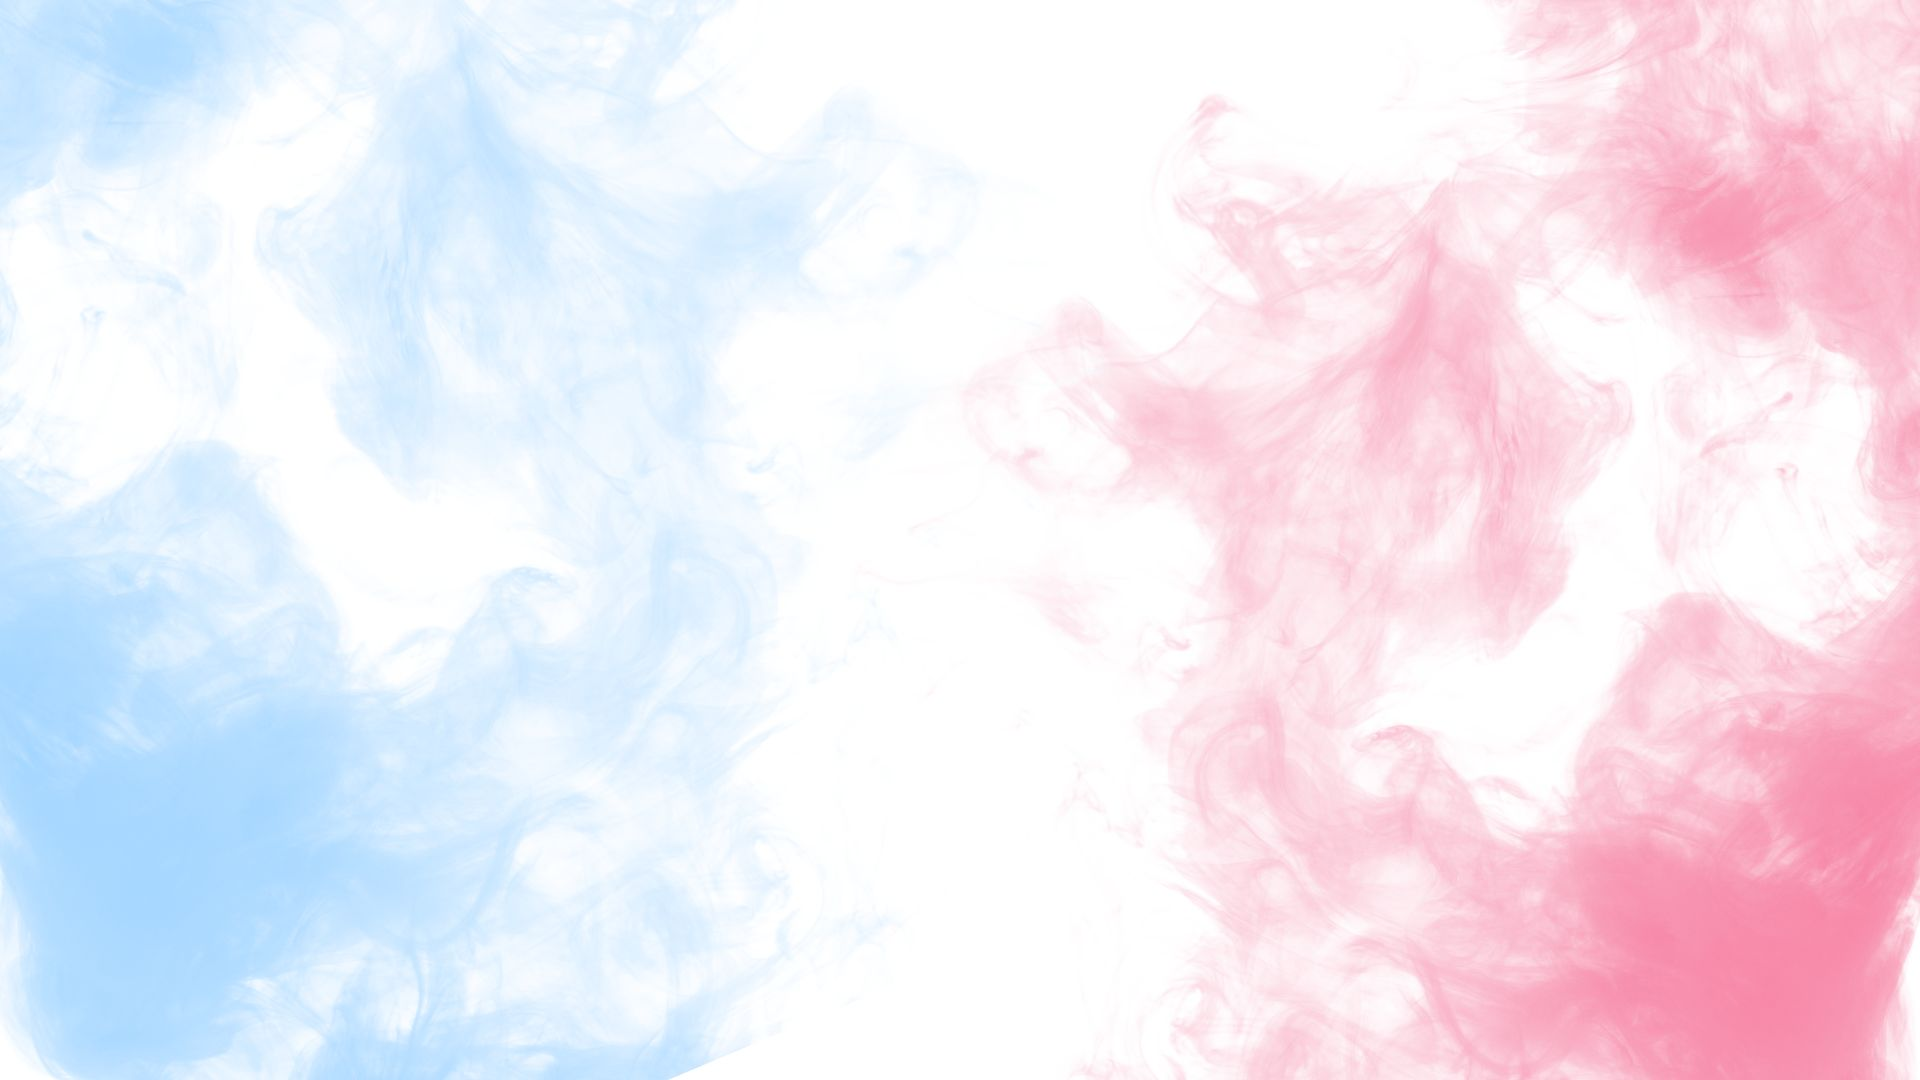
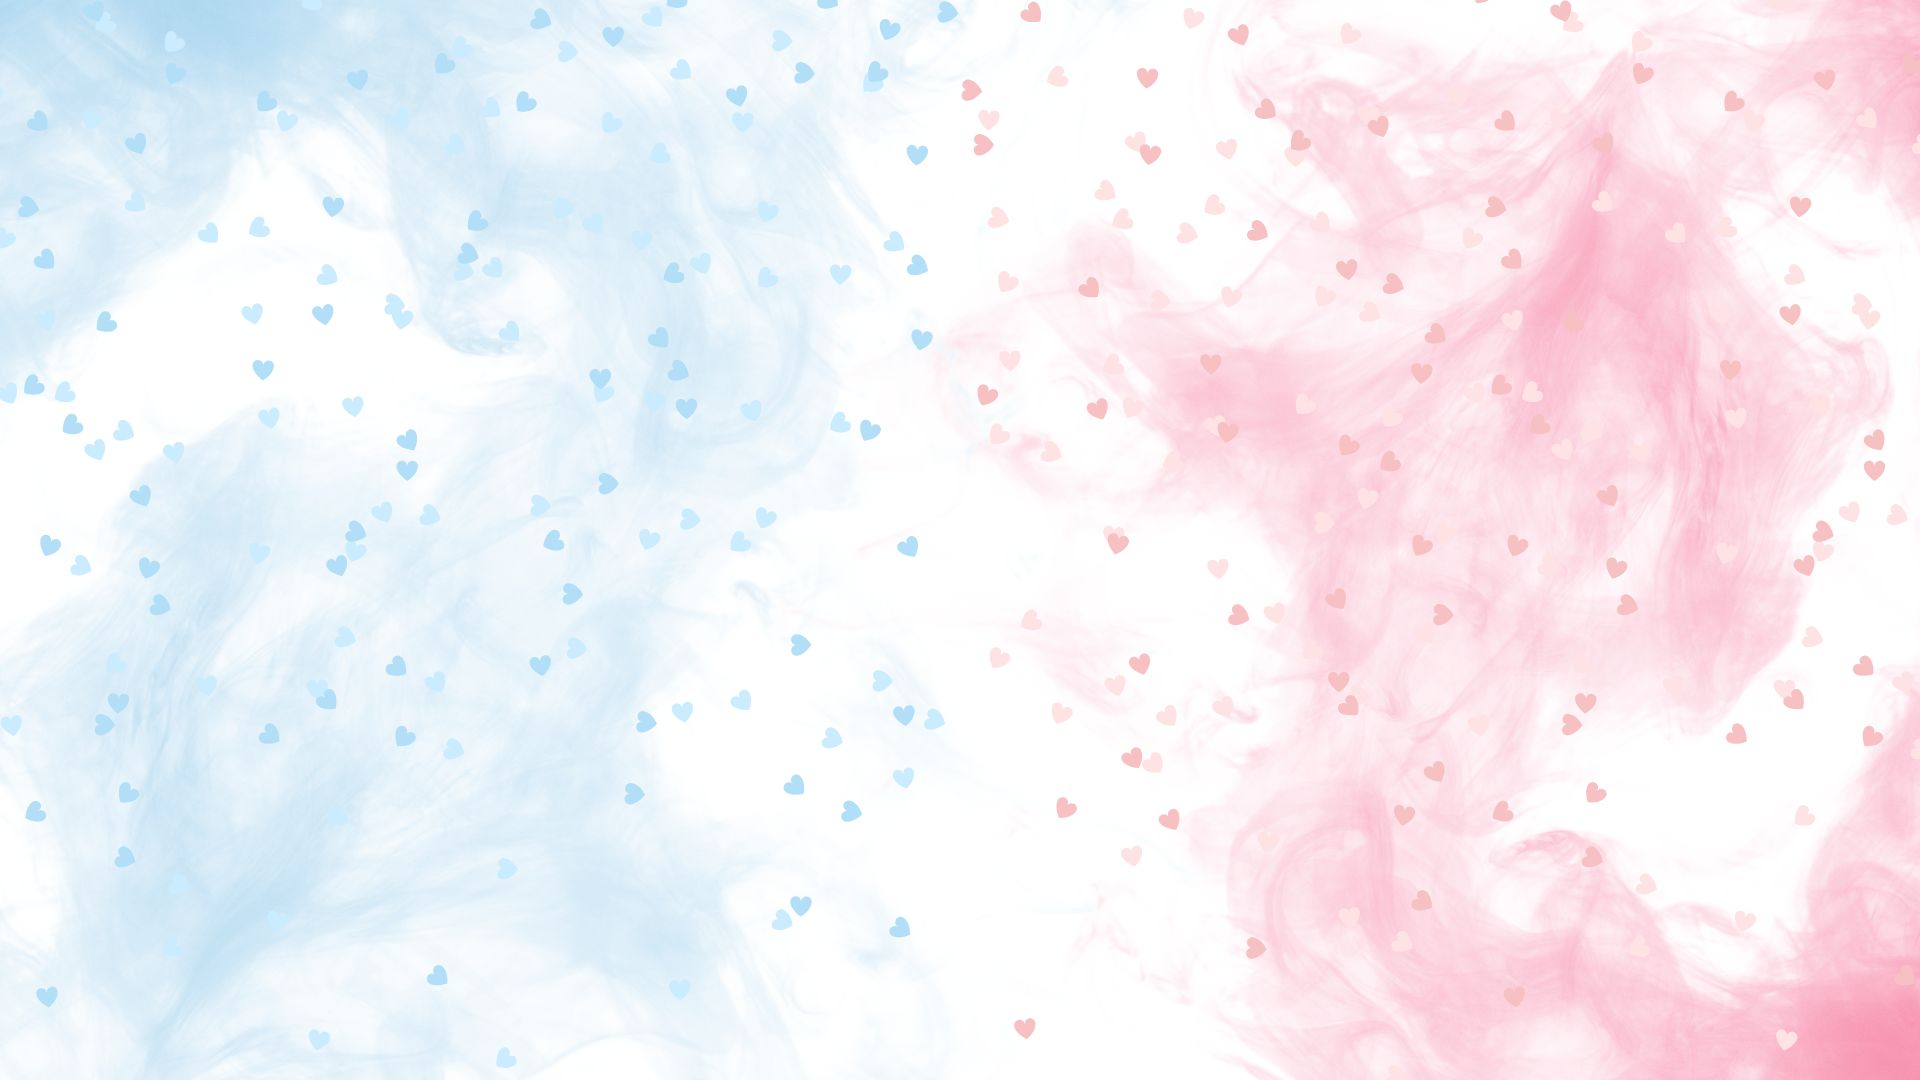
removed tsParticles due to performance

diff --git a/main.js b/main.js
@@ -3,7 +3,7 @@
  *
  * depends on jQuery>=1.7
  */
-import {startParticles, stopParticles, startConfetti, stopConfetti} from './particles.js';
+/*import {startParticles, stopParticles, startConfetti, stopConfetti} from './particles.js';*/
 /*import {confetti} from 'https://cdn.jsdelivr.net/npm/@tsparticles/confetti@3.0.3/umd/confetti.js';*/
 var rnd;
 // locations of correct gender circles
@@ -146,7 +146,6 @@ var pct =new Array(9);
     function confetti_effect() {
         //defaults = { startVelocity: 30, spread: 360, ticks: 60, zIndex: 0 };
         
-        stopParticles();
         
         if(triggered==true) {
             return;
@@ -157,7 +156,26 @@ var pct =new Array(9);
         }
         triggered=true;
        
-        startConfetti();
+            var duration = 10 * 1000;
+             var end = Date.now() + duration;
+             var defaults = { startVelocity: 10, spread: 360, ticks: 70, zIndex: 0 };
+             var particleCount = 5 ;
+             (function frame() {
+             // launch a few confetti from the left edge
+             confetti({...defaults, particleCount, origin: { x: randomInRange(0.1, 0.3), y: Math.random() - 0.2 }, colors: ['#FFFFFF']}
+             );
+             // and launch a few from the right edge
+             confetti({ ...defaults, particleCount, origin: { x: randomInRange(0.7, 0.9), y: Math.random() - 0.2 },colors: ['#FFFFFF']}
+             );
+          
+             // keep going until we are out of time
+             if (Date.now() < end) {
+                 requestAnimationFrame(frame);
+                 
+                 return;
+             }
+            }());
+          
         setTimeout(function(){
             $("#resetbutton").show();
         }, 10000);
@@ -175,8 +193,7 @@ var pct =new Array(9);
         for (i = 0; i < scratchers.length; i++) {
             scratchers[i].reset();
         }
-        stopConfetti();
-        startParticles();
+        
         $('#tboy').hide();
         $('#boy').show();
         $('#or').show();

diff --git a/index.html b/index.html
@@ -14,22 +14,12 @@
 <!-- jQuery library -->
 <script src="https://cdn.jsdelivr.net/npm/jquery@3.7.1/dist/jquery.min.js" integrity="sha384-1H217gwSVyLSIfaLxHbE7dRb3v4mYCKbpQvzx0cegeju1MVsGrX5xXxAvs/HgeFs" crossorigin="anonymous"></script>
 <script src="https://cdn.jsdelivr.net/npm/canvas-confetti@1.8.0/dist/confetti.browser.min.js"></script>
-<!-- <script id="MathJax-script" async src="https://cdn.jsdelivr.net/npm/mathjax@3/es5/tex-mml-chtml.js"></script> -->
-<!-- first include any tsParticles plugin needed -->
-<!-- first include any tsParticles plugin needed -->
-<script src="https://cdn.jsdelivr.net/npm/tsparticles/tsparticles.bundle.min.js"></script>
-<script src="https://cdn.jsdelivr.net/npm/@tsparticles/shape-heart@3.7.1/tsparticles.shape.heart.min.js"></script>
-<!-- then include jquery wrapper -->
-<script src="https://cdn.jsdelivr.net/npm/@tsparticles/jquery"></script>
-<!-- CSS and scripts -->
-
 <link href="main.css" rel="stylesheet" type="text/css">
 <link rel="stylesheet" type="text/css" href="main_landscape.css" media="screen and (orientation: landscape) and (max-width: 1023px)">
 <link href="crispy-toast.css" rel="stylesheet" type="text/css"/>
 <script src="crispy-toast.js" type="text/javascript"></script>
 <script src="scratcher2.js" type="text/javascript"></script>
 <script src="main.js" type="module"></script>
-<script src="particles.js" type="module"></script>
 <!-- begin common pre2 -->
 </head>
 <!-- begin common pagetop -->
